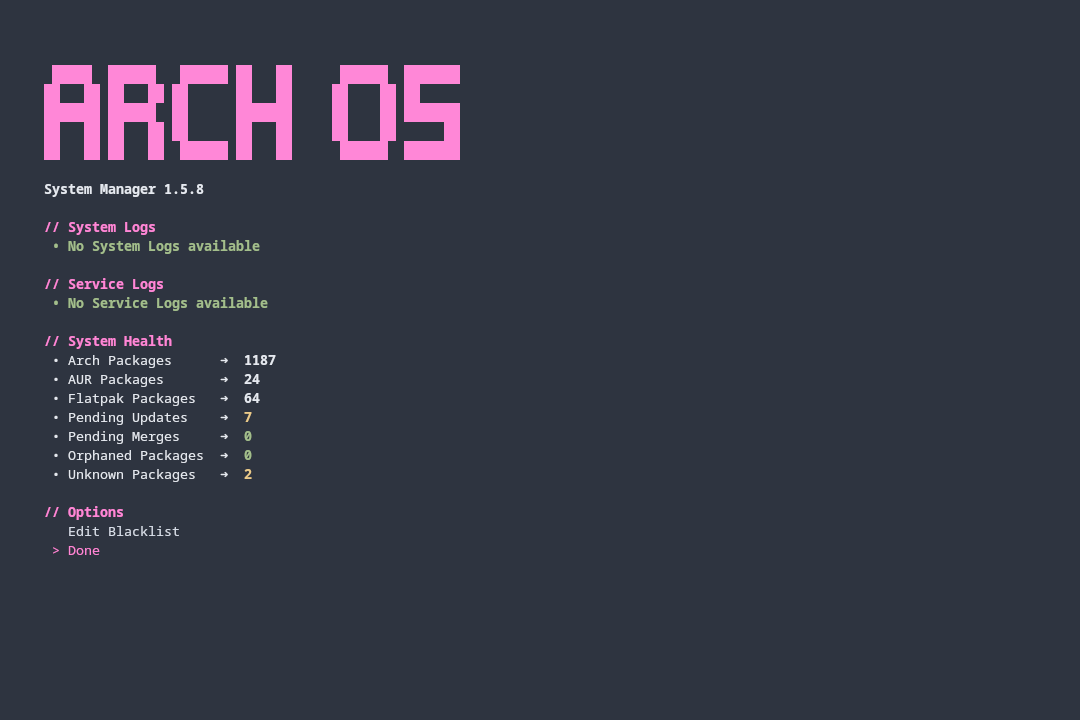
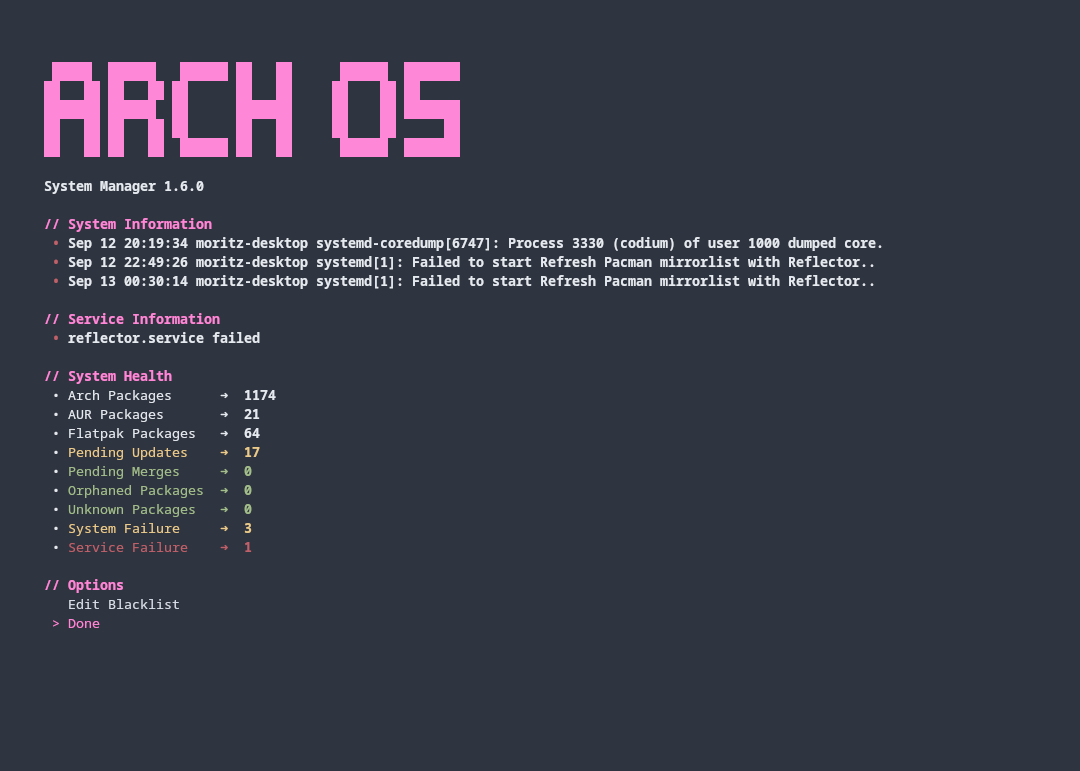
1.6.0
* add new health info (system logs & services)
* new db sync
* new style (upgrade & info)

Changed region(s): [[0.0306, 0.0611, 0.825, 0.825], [0.3056, 0.0611, 0.4278, 0.2444]]

diff --git a/docs/README.md b/docs/README.md
@@ -143,9 +143,8 @@ dconf write /org/gnome/shell/extensions/arch-update/package-manager "'arch-os --
 
 <sub><b>This screenshots may outdated.</b></sub>
 
-<p><img src="./screenshots/info.png"></p>
 <p><img src="./screenshots/upgrade.png"></p>
-<p><img src="./screenshots/uptodate.png"></p>
+<p><img src="./screenshots/info.png"></p>
 <p><img src="./screenshots/search.png"></p>
 <p><img src="./screenshots/refresh.png"></p>
 
